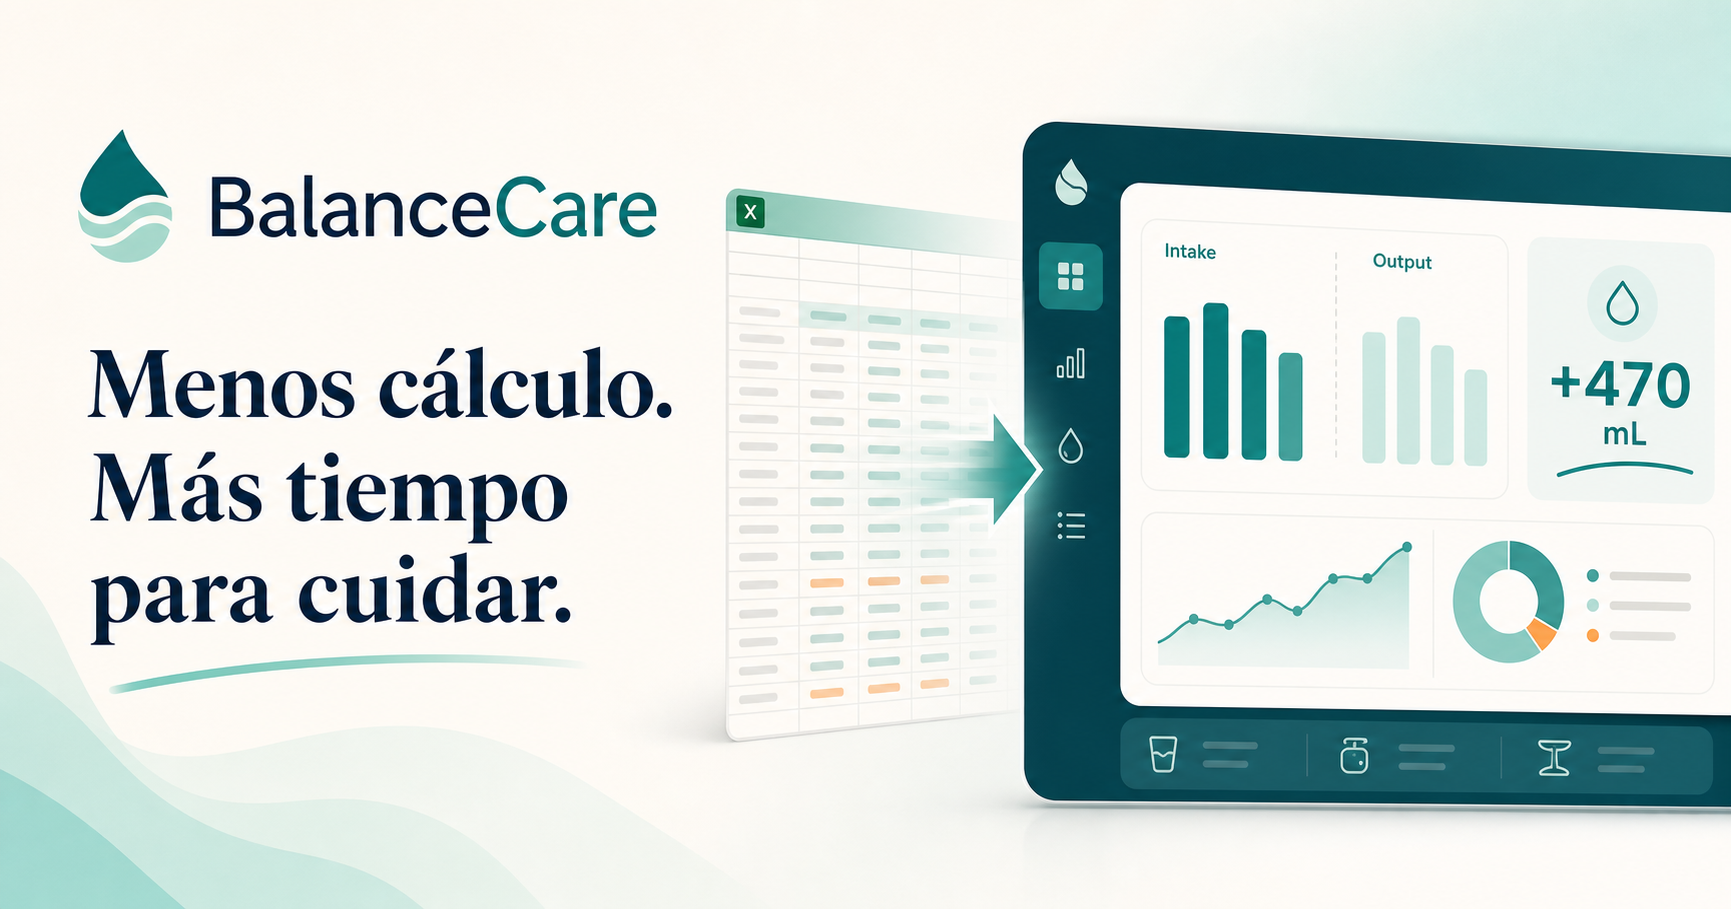
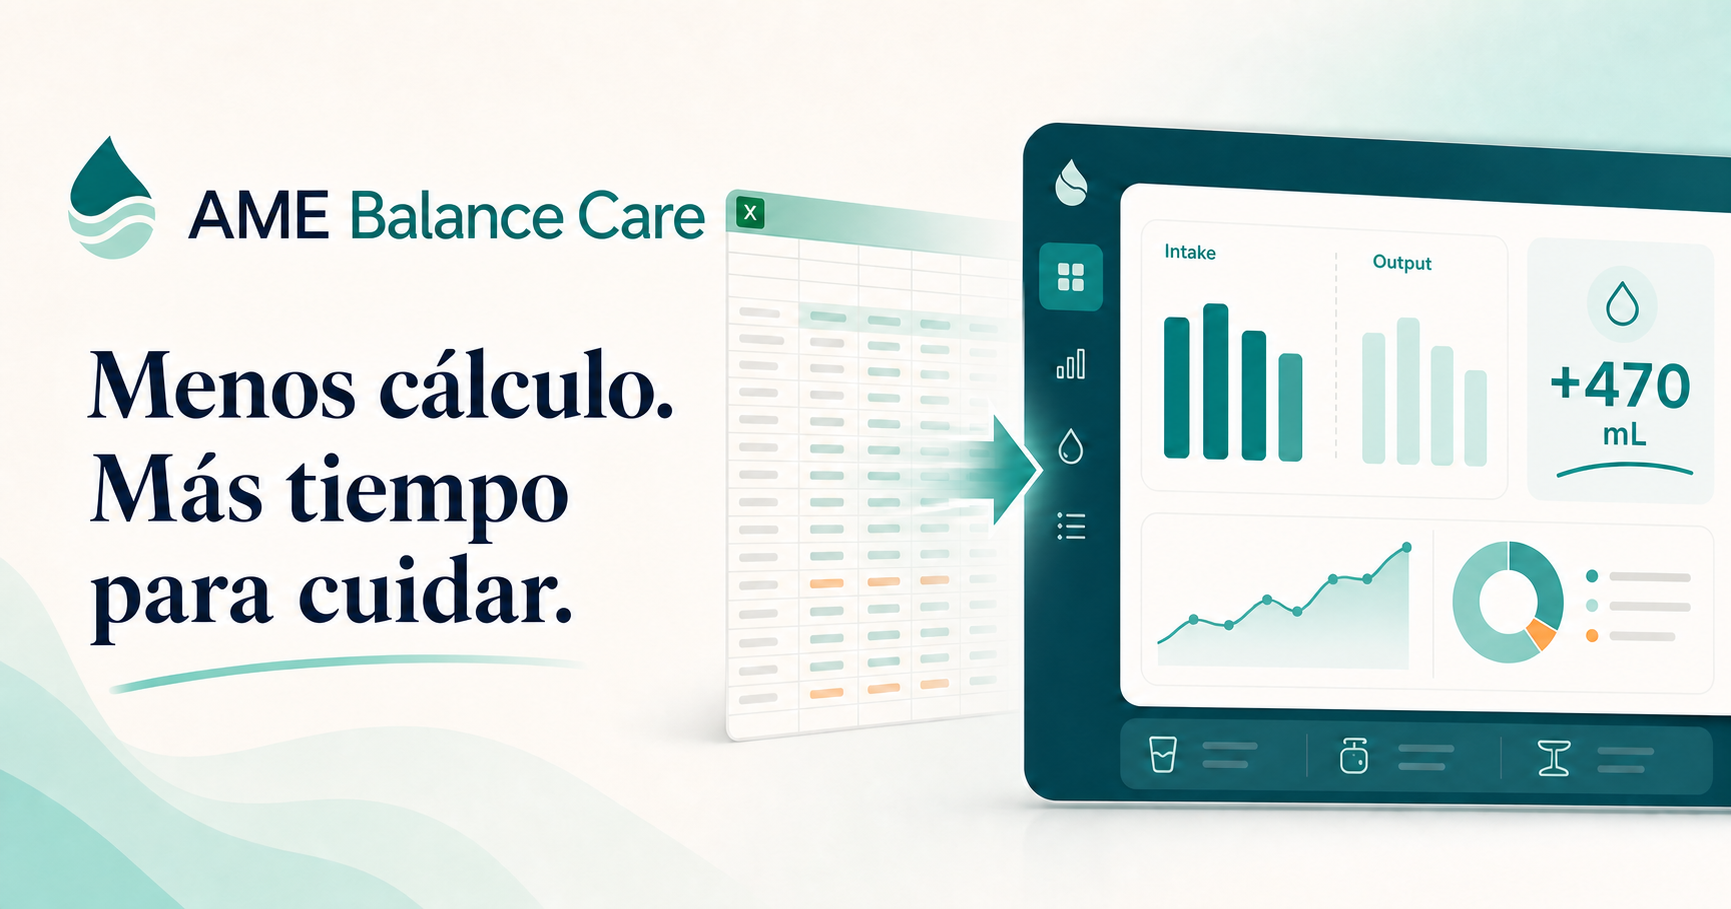
Rename app to AME Balance Care

diff --git a/app/page.tsx b/app/page.tsx
@@ -89,7 +89,7 @@ export default function Home() {
 
   const max = Math.max(...result.bands.flatMap(b=>[b.intake,b.output]),1);
   return <main>
-    <header className="topbar"><a className="brand" href="#"><span className="brandMark"><Activity size={20}/></span><span>Balance<span>Care</span></span></a><nav><a href="#flujo">{t.navHow}</a><a href="#acumulado">{e.cumulative}</a><a href="#bibliografia">{e.bibliography}</a><a href="#seguridad">{t.navSafety}</a></nav><div className="lang"><Languages size={16}/>{(["es","en","zh","pt"] as Lang[]).map(l=><button className={lang===l?"active":""} onClick={()=>setLang(l)} key={l}>{l==="zh"?"中文":l.toUpperCase()}</button>)}</div></header>
+    <header className="topbar"><a className="brand" href="#"><span className="brandMark"><Activity size={20}/></span><span>AME Balance <span>Care</span></span></a><nav><a href="#flujo">{t.navHow}</a><a href="#acumulado">{e.cumulative}</a><a href="#bibliografia">{e.bibliography}</a><a href="#seguridad">{t.navSafety}</a></nav><div className="lang"><Languages size={16}/>{(["es","en","zh","pt"] as Lang[]).map(l=><button className={lang===l?"active":""} onClick={()=>setLang(l)} key={l}>{l==="zh"?"中文":l.toUpperCase()}</button>)}</div></header>
 
     <section className="hero"><div className="heroCopy"><div className="eyebrow"><Sparkles size={15}/>{t.badge}</div><h1>{t.titleA}<br/><em>{t.titleB}</em></h1><p>{t.intro}</p><div className="heroActions"><a className="primary" href="/Plantilla_Balance_Hidrico_Enfermeria.xlsx" download><Download size={19}/>{t.template}</a><button className="secondary" onClick={()=>document.getElementById("upload")?.scrollIntoView({behavior:"smooth"})}>{t.start}<ChevronRight size={18}/></button></div><span className="privacy"><LockKeyhole size={14}/>{t.privacy}</span></div><div className="heroVisual" aria-label={t.demo}><div className="sheetCard"><div className="sheetTop"><div><small>BALANCE · 24H</small><strong>María P.</strong></div><span>14 AGO</span></div><div className="balanceOrb"><small>{t.net}</small><b>+470</b><span>mL</span></div><div className="miniStats"><span><i className="dot in"/>{t.intake}<b>2,450 mL</b></span><span><i className="dot out"/>{t.output}<b>1,980 mL</b></span></div><div className="miniChart">{demo.bands.map((b,i)=><span key={i} style={{height:`${22+Math.abs(b.balance)/3}px`}} className={b.balance<0?"neg":""}/>)}</div><div className="verified"><Check size={14}/> Cálculos verificados</div></div><div className="floatCard"><FileSpreadsheet size={18}/><span>Plantilla inteligente<strong>48 registros</strong></span></div></div></section>
 
@@ -104,6 +104,6 @@ export default function Home() {
     <section className="evidence" id="bibliografia"><div className="evidenceIntro"><span>05 · EVIDENCIA</span><h2>{e.formulaTitle}</h2><p>{e.formulaText}</p></div><div className="formulaGrid">{[e.f1,e.f2,e.f3,e.f4,e.f5].map((formula,index)=><article key={formula}><span>0{index+1}</span><p>{formula}</p></article>)}</div><div className="sources"><div><BookOpen size={24}/><h3>{e.bibliography}</h3><p>{e.scope}</p></div><ol><li><a href="https://www.nice.org.uk/guidance/cg174" target="_blank" rel="noreferrer">NICE CG174 · Intravenous fluid therapy in adults in hospital</a><small>Evaluación, plan de 24 horas, monitorización y reevaluación clínica.</small></li><li><a href="https://www.nice.org.uk/guidance/ng29/chapter/recommendations" target="_blank" rel="noreferrer">NICE NG29 · Intravenous fluid therapy in children and young people</a><small>Registro horario de tipos y volúmenes, con totales continuos.</small></li><li><a href="https://www.nice.org.uk/guidance/ng148/chapter/Recommendations" target="_blank" rel="noreferrer">NICE NG148 · Acute kidney injury</a><small>Reconocimiento de oliguria y necesidad de respuesta clínica contextual.</small></li></ol></div></section>
 
     <section className="safety" id="seguridad"><div><span id="beneficios">06 · CONFIANZA</span><h2>{t.safeTitle}</h2><p>{t.safeText}</p></div><div className="guards"><span><Check/> {t.guard1}</span><span><LockKeyhole/> {t.guard2}</span><span><Languages/> {t.guard3}</span></div></section>
-    <footer><div className="brand"><span className="brandMark"><Activity size={18}/></span><span>Balance<span>Care</span></span></div><p>{t.note}</p><small>Versión clínica inicial · 2026</small></footer>
+    <footer><div className="brand"><span className="brandMark"><Activity size={18}/></span><span>AME Balance <span>Care</span></span></div><p>{t.note}</p><small>Versión clínica inicial · 2026</small></footer>
   </main>;
 }

diff --git a/app/layout.tsx b/app/layout.tsx
@@ -13,16 +13,16 @@ const geistMono = Geist_Mono({
 });
 
 export const metadata: Metadata = {
-  title: "BalanceCare | Balance hídrico de enfermería",
+  title: "AME Balance Care | Balance hídrico de enfermería",
   description: "Plantilla Excel, análisis automático y reporte visual de balance hídrico para enfermería.",
   openGraph: {
-    title: "BalanceCare | Menos cálculo. Más tiempo para cuidar.",
+    title: "AME Balance Care | Menos cálculo. Más tiempo para cuidar.",
     description: "Balance hídrico de enfermería con plantilla Excel, análisis automático y reporte terminado.",
-    images: [{ url: "/og.png", width: 1200, height: 630, alt: "BalanceCare, balance hídrico de enfermería" }],
+    images: [{ url: "/og.png", width: 1200, height: 630, alt: "AME Balance Care, balance hídrico de enfermería" }],
   },
   twitter: {
     card: "summary_large_image",
-    title: "BalanceCare | Balance hídrico de enfermería",
+    title: "AME Balance Care | Balance hídrico de enfermería",
     description: "Menos cálculo. Más tiempo para cuidar.",
     images: ["/og.png"],
   },
